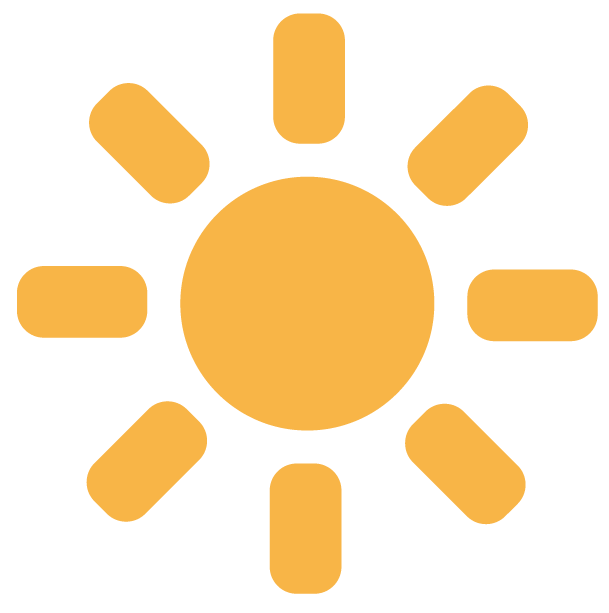
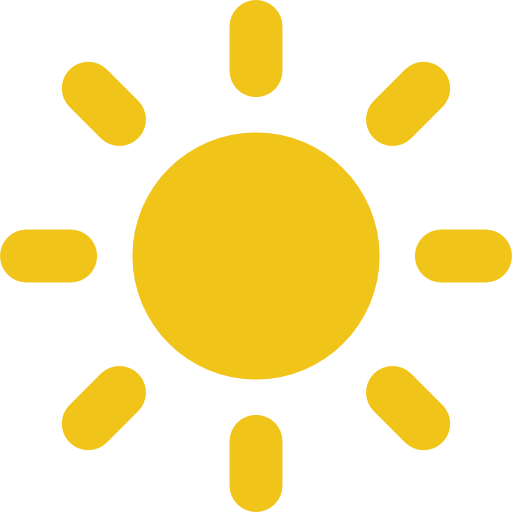
Week 6

diff --git a/chamber/index.html b/chamber/index.html
@@ -26,7 +26,7 @@
         </div>
     </div>
     <header>
-        <img src="images/logo1.png" alt="United logo">
+        <img src="images/logo1.webp" alt="United logo">
         <nav>
         <button id="hamburgerBtn"><span>&#9776;</span><span>X</span></button>
             <ul id="primaryNav">
@@ -48,7 +48,9 @@
     </header>
     <main>
         <div class="hero_container">
-            <img id="hero_img" src="images/hero.jpg" alt="monterrey image">
+            <img id="hero_img" src="images/wddd230_large.jpg" alt="hero image" sizes="100vw"
+                srcset="images/wdd230_medium.jpg 1184w,
+                        images/wdd230_small.jpg 720w">
             <h1>Welcome to United</h1>
             <a class="call_to_action" href="#">Join the Chamber</a>
         </div>
@@ -63,15 +65,20 @@
         </div>
         <div class="weather">
             <h2>Weather</h2>
-            <img src="images/sun.png" alt="sun icon">
-            <h3 id="degrees">33°C</h3>
+            <picture class = "sun">
+                <source media="(max-width: 719px)" srcset="images/sun_small.png">
+                <source media="(max-width: 1183px)" srcset="images/sun_medium.png">
+                <source media="(max-width: 1500px)" srcset="images/sun_large.png">
+                <img src="images/sun.png" alt="sun icon">
+            </picture>
+            <h3 id="degrees">33 °C</h3>
             <h3 id="weather_text">Sunny</h3>
             <hr>
             <div class="weather_info">
                 <p id="ws_text">Wind Speed:</p>
                 <p id="ws_number">2.5 km/h</p>
                 <p id="wc_text">Wind Chill:</p>
-                <p id="wc_number">N/A</p>
+                <p id="wc_number"></p>
             </div>
         </div>
         <div class="new_release">
@@ -84,7 +91,12 @@
         <div id="spot-container">
             <div id="spot1">
                 <h2>Transportation</h2>
-                <img src="images/truck.png" alt="mini truck">
+                <picture class="truck">
+                    <source media="(max-width: 719px)" srcset="images/truck_small.png">
+                    <source media="(max-width: 1183px)" srcset="images/truck_medium.png">
+                    <source media="(max-width: 1500px)" srcset="images/truck_large.png">
+                    <img src="images/truck.png" alt="mini truck">
+                </picture>
                 <h3>"We get it there for you"</h3>
                 <hr>
                 <p class="email">info@unitedchamber.org</p>
@@ -92,7 +104,12 @@
             </div>
             <div id="spot2">
                 <h2>Education</h2>
-                <img src="images/conference.png" alt="conference icon">
+                <picture class="conference">
+                    <source media="(max-width: 719px)" srcset="images/conference_small.png">
+                    <source media="(max-width: 1183px)" srcset="images/conference_medium.png">
+                    <source media="(max-width: 1500px)" srcset="images/conference_large.png">
+                    <img src="images/conference.png" alt="conference icon">
+                </picture>
                 <h3>Monthly Talks</h3>
                 <hr>
                 <p class="email">info@unitedchamber.org</p>
@@ -100,7 +117,10 @@
             </div>
             <div id="spot3">
                 <h2>Build your network</h2>
-                <img src="images/business.png" alt="handshake icon">
+                <picture class="handshake">
+                    <source media="(max-width: 1500px)" srcset="images/hands_large.png">
+                    <img src="images/business.png" alt="handshake icon">
+                </picture>
                 <h3>"Largest Chamber of Commerce in Monterrey"</h3>
                 <hr>
                 <p class="email">info@unitedchamber.org</p>
@@ -114,7 +134,7 @@
         </div>
     </main>
     <footer>
-        <img src="images/logo.png" alt="United picture">
+        <img src="images/logo.webp" alt="United picture">
         <div class="contactInfo">
             <h1>United Chamber of Commerce</h1>
             <p>Av. Diego Rivera 555</p>
@@ -134,5 +154,6 @@
         </div>
     </footer>
     <script src="scripts/main.js"></script>
+    <script src="scripts/windchill.js"></script>
 </body>
 </html>

diff --git a/chamber/scripts/windchill.js b/chamber/scripts/windchill.js
@@ -1,0 +1,26 @@
+//get the two input values of temperature and wind speed.
+const temperatureHtml = document.querySelector("#degrees").textContent;
+const windSpeedHtml = document.querySelector("#ws_number").textContent;
+
+const tempC = parseFloat(GetNumbers(temperatureHtml));
+const wsKmh = parseFloat(GetNumbers(windSpeedHtml));
+
+function GetNumbers(element) {
+    let list = element.split(" ");
+    return list[0];
+}
+//check to make sure they meet the specification limits  (<=50°F and >3.0mph) allowed to officially calculate the wind chill and
+//either calculate and display the wind chill factor value or display "N/A" (not applicable) if the input values did not meet the requirements.
+let tempF = (tempC * (9/5)) + 32;
+let wsMph = wsKmh / 1.609;
+
+//tempF = 30;
+//wsMph = 8;
+
+if (tempF <= 50 && wsMph > 3.0) {
+    wcF = 35.74 + 0.6215*(tempF) - 35.75*(wsMph**0.16) + 0.4275*(tempF)*(wsMph**0.16);
+    wcC = ((wcF-32) * 5) / 9;
+    document.querySelector("#wc_number").textContent = Math.round(wcC) + " °C";
+} else {
+    document.querySelector("#wc_number").textContent = "N/A";
+}

diff --git a/chamber/styles/medium.css b/chamber/styles/medium.css
@@ -1,4 +1,4 @@
-@media (min-width: 38em) {
+@media (min-width: 45em) {
   
         /*HEADER CSS*/
         header>img {

diff --git a/chamber/styles/large.css b/chamber/styles/large.css
@@ -1,4 +1,4 @@
-@media (min-width: 65em) {
+@media (min-width: 74em) {
 
     /*HEADER CSS*/
     header {
